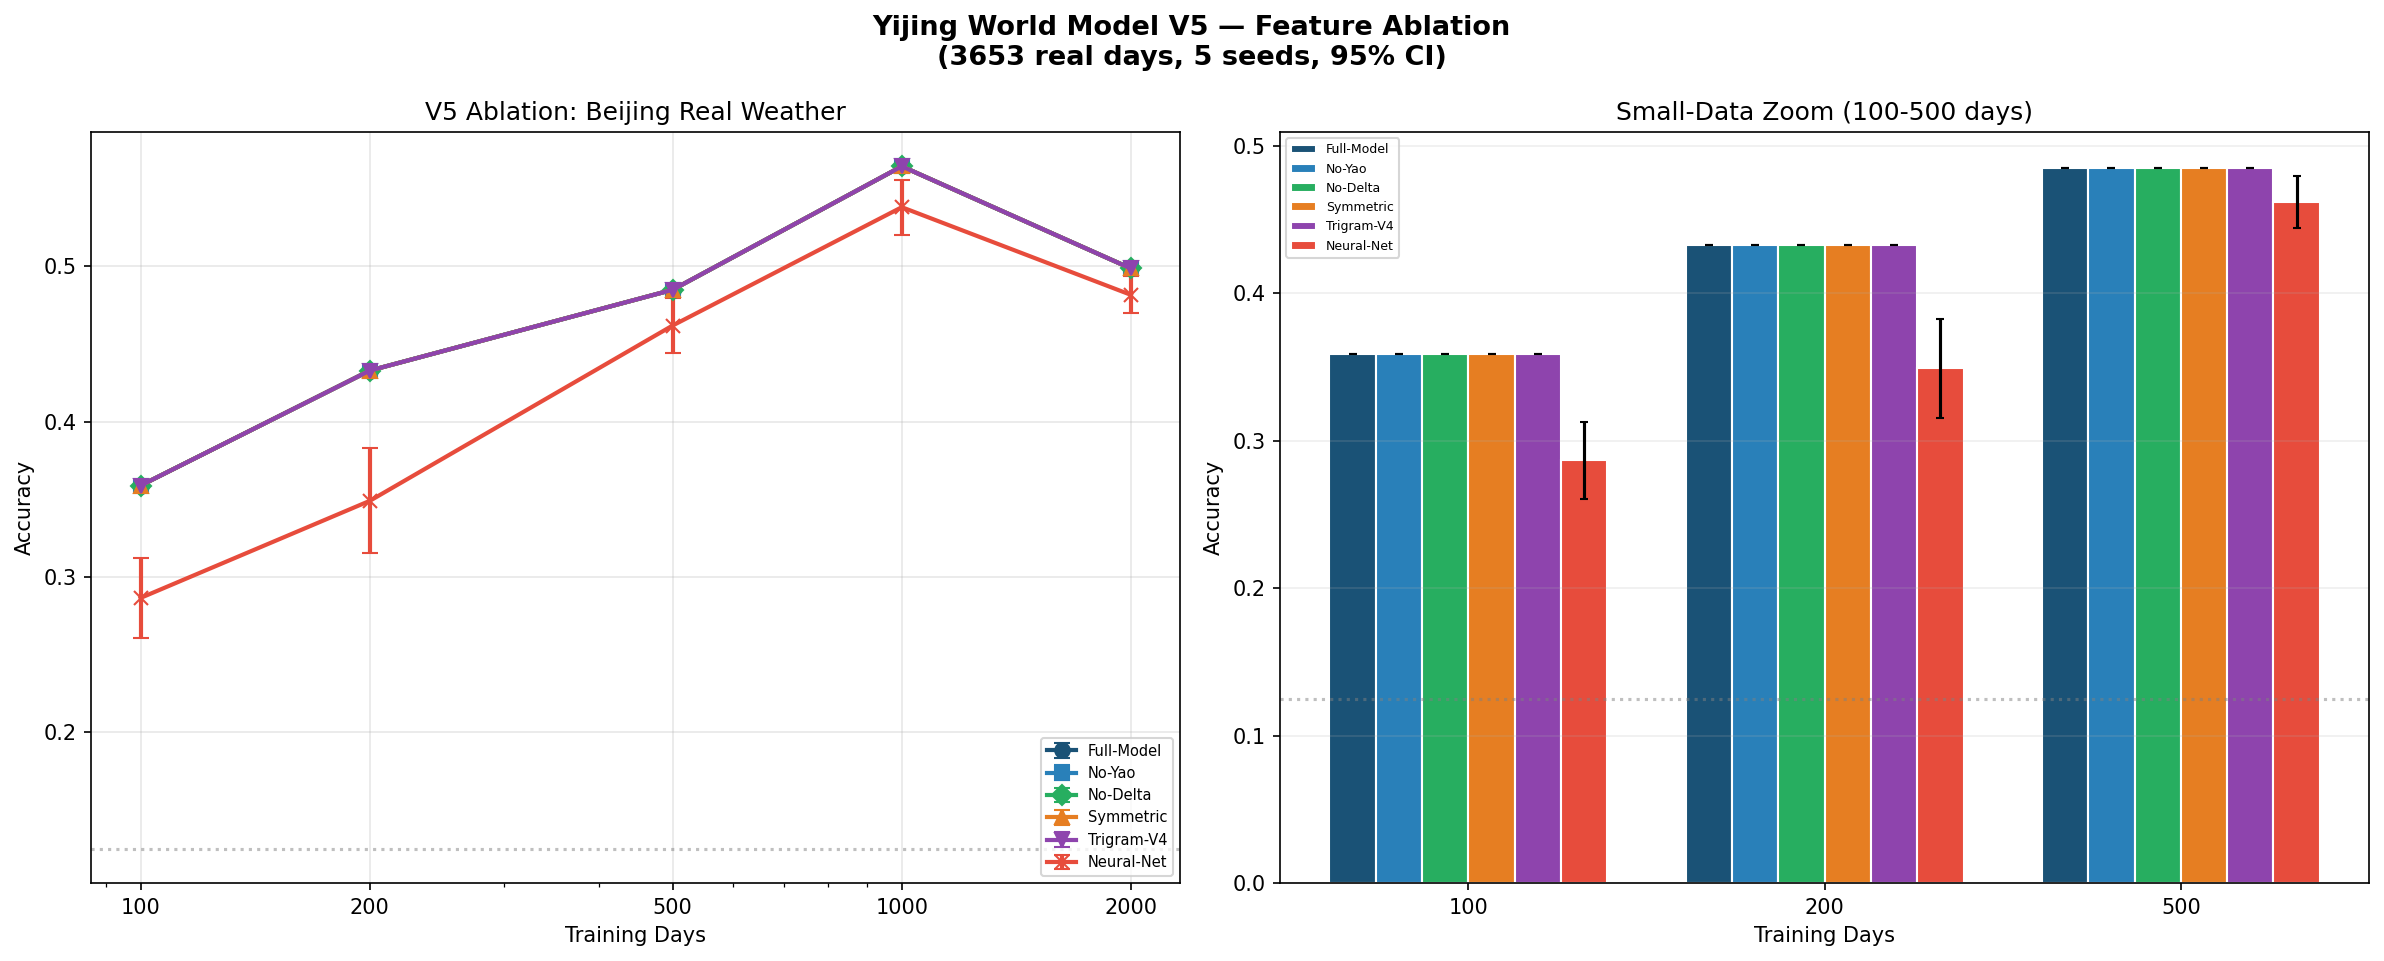
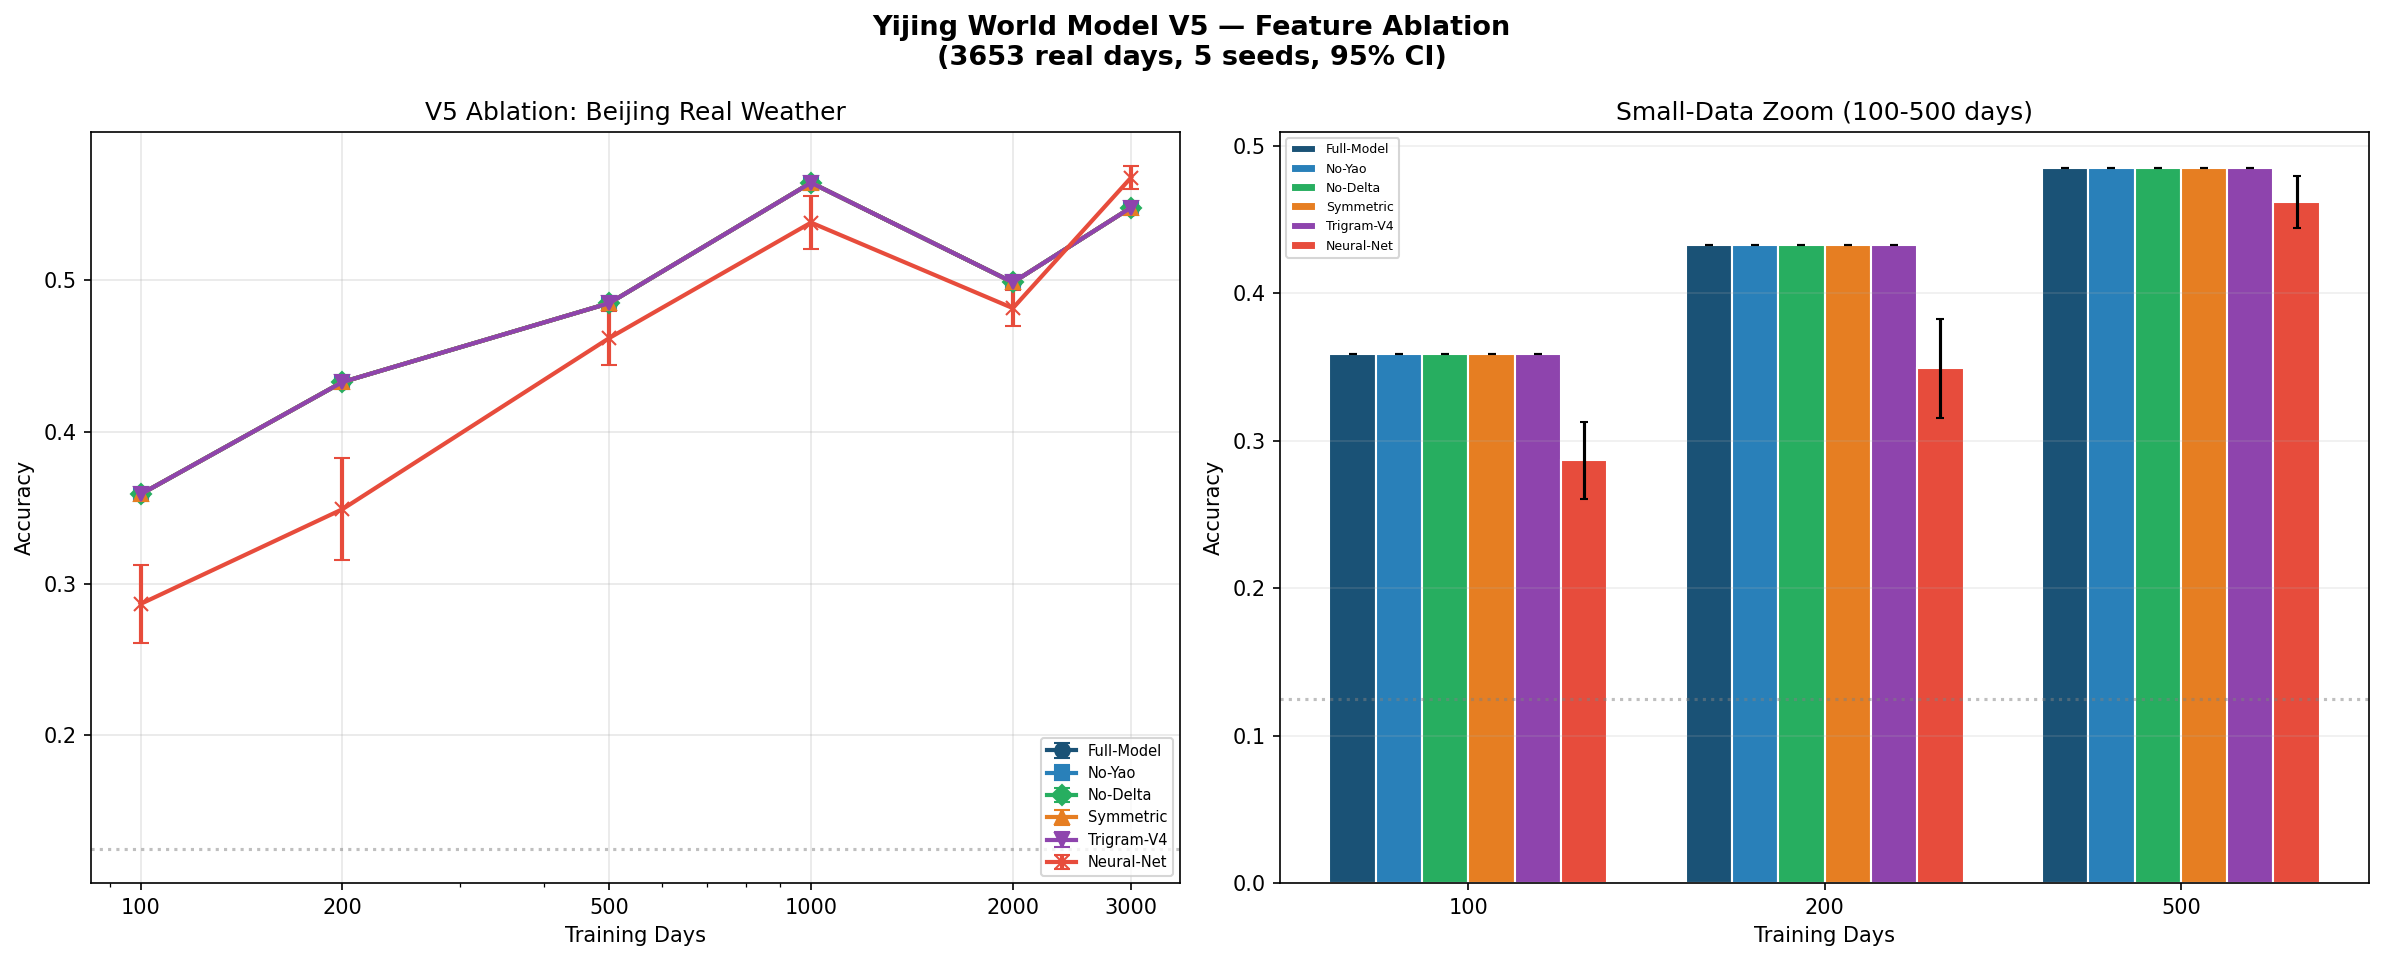
Remove LETTER.md

diff --git a/mvp/experiment_v6.py b/mvp/experiment_v6.py
@@ -1,0 +1,338 @@
+#!/usr/bin/env python3
+"""
+V6 实验: 多特征输入 — 温度/降水/风速/湿度增强预测
+=====================================================
+
+对比:
+  - Trigram-Bayes + features
+  - Trigram-Bayes (weather-code only, V5 baseline)
+  - Neural-Net + features (60-dim input)
+  - Neural-Net (24-dim input, V5 baseline)
+
+数据: Beijing 2015-2024, 5 特征 × 3653 天
+"""
+
+import numpy as np
+import matplotlib; matplotlib.use("Agg")
+import matplotlib.pyplot as plt
+import json, urllib.request, os, csv, warnings
+warnings.filterwarnings("ignore")
+
+from model import (
+    TrigramBayesianModel, NeuralNetModel,
+    TRIGRAM_WEATHER, N_WEATHER, WEATHER_TYPES, HEX_TO_TRIGRAMS,
+)
+
+# ============================================================================
+# 多特征数据处理
+# ============================================================================
+
+WMO_MAP = {0:0,1:0,2:2,3:1,45:7,48:7,51:4,53:4,55:4,61:4,63:4,65:4,
+           71:7,73:7,75:7,80:4,81:4,82:4,95:3,96:3,99:3}
+HOT_T = 32.0
+N_FEAT = 5  # weather_code + temp + precip + wind + humidity
+
+def fetch_data(cache="/tmp/beijing_multi.json"):
+    if os.path.exists(cache):
+        return json.load(open(cache))
+    url = ("https://archive-api.open-meteo.com/v1/archive?"
+           "latitude=39.9&longitude=116.4&start_date=2015-01-01&end_date=2024-12-31"
+           "&daily=weather_code,temperature_2m_max,precipitation_sum,"
+           "wind_speed_10m_max,relative_humidity_2m_mean&timezone=Asia/Shanghai")
+    d = json.loads(urllib.request.urlopen(url).read())
+    json.dump(d, open(cache,"w"))
+    return d
+
+def to_arrays(data):
+    """返回 (weather_seq, feature_matrix)。feature_matrix: (n_days, 5) 归一化。"""
+    daily = data["daily"]
+    n = len(daily["weather_code"])
+    
+    # Weather types (0-7)
+    codes = daily["weather_code"]
+    temps = daily["temperature_2m_max"]
+    wtypes = np.zeros(n, dtype=int)
+    for i in range(n):
+        t = temps[i]
+        wtypes[i] = 5 if (t and t > HOT_T) else WMO_MAP.get(codes[i], 1)
+    
+    # Feature matrix: [temp, precip, wind, humidity] (归一化到 [0,1])
+    feats = np.zeros((n, N_FEAT))
+    # 0: weather_code (normalized to 0-1 range)
+    feats[:,0] = wtypes / 7.0
+    
+    # 1: temperature_2m_max
+    t_vals = np.array([v if v else 15.0 for v in temps])
+    feats[:,1] = (t_vals + 15) / 60.0  # map [-15,45] to [0,1]
+    
+    # 2: precipitation_sum (log-scale)
+    p_vals = np.array([v if v else 0.0 for v in daily["precipitation_sum"]])
+    feats[:,2] = np.log1p(p_vals) / np.log1p(200)  # log(1+x)/log(201)
+    
+    # 3: wind_speed_10m_max
+    w_vals = np.array([v if v else 10.0 for v in daily["wind_speed_10m_max"]])
+    feats[:,3] = w_vals / 60.0
+    
+    # 4: relative_humidity_2m_mean
+    h_vals = np.array([v if v else 50.0 for v in daily["relative_humidity_2m_mean"]])
+    feats[:,4] = h_vals / 100.0
+    
+    feats = np.clip(feats, 0, 1)
+    return wtypes, feats
+
+
+# ============================================================================
+# 增强版 I Ching 模型: 特征相似度调制卦象权重
+# ============================================================================
+
+class FeaturedTrigramModel(TrigramBayesianModel):
+    """
+    多特征三爻共享模型。
+    
+    在原有 hex_ll 权重基础上，加入特征匹配奖励:
+      relevance[h] = softmax(hex_ll[h]/T + feat_match[h] * feat_weight)
+    
+    每个卦象维护一个"特征原型" (5维均值向量),
+    特征匹配度 = 当前特征向量与原型的内积相似度。
+    """
+    
+    def __init__(self, trigram_affinities, prior_strength=1.0, temperature=0.5,
+                 feat_weight=0.5):
+        super().__init__(trigram_affinities, prior_strength, temperature)
+        self.feat_w = feat_weight
+        # 每个卦象的特征原型: (64, 5), 初始化为卦象亲和度的简单编码
+        self.prototypes = np.zeros((self.nh, N_FEAT))
+        for h in range(self.nh):
+            # 原型初始 = 卦象主导天气倾向 (feat 0)
+            tu, tl = HEX_TO_TRIGRAMS[h]
+            avg_aff = (trigram_affinities[tu] + trigram_affinities[tl]) / 2
+            self.prototypes[h, 0] = avg_aff.argmax() / 7.0
+        self.prototypes[:, 1:] = 0.5  # 中性初始化
+        self.proto_count = np.ones(self.nh)  # 更新计数
+    
+    def _feat_match(self, features):
+        """计算当前特征与各卦象原型的余弦相似度。"""
+        if features is None or len(features) == 0:
+            return np.ones(self.nh)
+        f = np.array(features[-1])  # 最新一天的特征
+        # 余弦相似度
+        proto_norm = np.linalg.norm(self.prototypes, axis=1) + 1e-8
+        feat_norm = np.linalg.norm(f) + 1e-8
+        sim = (self.prototypes @ f) / (proto_norm * feat_norm)
+        return np.clip(sim + 1.0, 0.5, 2.0)  # map [-1,1] to [0.5, 2.0]
+    
+    def predict(self, history, features=None):
+        if len(history) == 0:
+            return np.ones(self.nw) / self.nw
+        wc = history[-1]
+        
+        lw = self.hex_ll / max(self.T, 0.01)
+        lw -= lw.max()
+        wts = np.exp(lw)
+        
+        # 特征匹配奖励
+        if features is not None and len(features) >= 1:
+            wts *= self._feat_match(features) ** self.feat_w
+        
+        s = wts.sum()
+        wts = wts / s if s > 1e-12 else np.ones(self.nh) / self.nh
+        
+        pred = np.zeros(self.nw)
+        for h in range(self.nh):
+            alpha_h = self._hex_alpha(h)
+            p = alpha_h[wc, :] / alpha_h[wc, :].sum()
+            pred += wts[h] * p
+        return pred / pred.sum()
+    
+    def update(self, history, observed, features=None, lr=1.0):
+        super().update(history, observed, lr)
+        # 更新特征原型
+        if features is not None and len(features) >= 1:
+            f = np.array(features[-1])
+            for h in range(self.nh):
+                # EMA 更新原型
+                alpha_ema = 0.01
+                self.prototypes[h] = (1 - alpha_ema) * self.prototypes[h] + alpha_ema * f
+
+
+# ============================================================================
+# 增强版 NN: 更多输入维度
+# ============================================================================
+
+class FeaturedNN(NeuralNetModel):
+    """NN with feature vector input instead of one-hot."""
+    
+    def __init__(self, ctx_win=3, hidden=32, lr=0.005, seed=42):
+        d = ctx_win * N_FEAT  # 3 * 5 = 15
+        rng = np.random.default_rng(seed)
+        self.W1 = rng.normal(0, np.sqrt(2./d), (d, hidden))
+        self.b1 = np.zeros(hidden)
+        self.W2 = rng.normal(0, np.sqrt(2./hidden), (hidden, N_WEATHER))
+        self.b2 = np.zeros(N_WEATHER)
+        self.lr = lr; self.cw = ctx_win
+    
+    def _enc(self, features):
+        """Encode feature history into vector."""
+        r = features[-self.cw:] if len(features) >= self.cw else features
+        v = np.zeros(self.cw * N_FEAT)
+        off = (self.cw - len(r)) * N_FEAT
+        for i, f in enumerate(r):
+            v[off + i*N_FEAT : off + (i+1)*N_FEAT] = np.array(f)
+        return v
+    
+    def predict(self, history, features=None):
+        if features is None or len(features) == 0:
+            return np.ones(N_WEATHER) / N_WEATHER
+        x = self._enc(features)
+        h = np.maximum(0, x @ self.W1 + self.b1)
+        l = h @ self.W2 + self.b2; l -= l.max()
+        p = np.exp(l); return p / p.sum()
+    
+    def update(self, history, observed, features=None, lr=None):
+        if features is None or len(features) == 0:
+            return
+        if lr is None: lr = self.lr
+        x = self._enc(features)
+        hp = x @ self.W1 + self.b1; h = np.maximum(0, hp)
+        l = h @ self.W2 + self.b2; l -= l.max()
+        p = np.exp(l); p /= p.sum()
+        dl = p.copy(); dl[observed] -= 1.
+        dW2 = np.outer(h, dl); db2 = dl
+        dh = self.W2 @ dl; dh[hp <= 0] = 0.
+        dW1 = np.outer(x, dh); db1 = dh
+        self.W2 -= lr * dW2; self.b2 -= lr * db2
+        self.W1 -= lr * dW1; self.b1 -= lr * db1
+
+
+# ============================================================================
+# 实验
+# ============================================================================
+
+LABELS = ["Trigram+Feat", "Trigram-Base", "NN+Feat", "NN-Base"]
+SIZES = [100, 200, 500, 1000, 2000, 3000]
+EVAL_W = 365; SEEDS = [42, 123, 456, 789, 1011]
+PS, T, FW = 1.0, 0.5, 0.5
+
+def make_models(seed):
+    return [
+        FeaturedTrigramModel(TRIGRAM_WEATHER, PS, T, feat_weight=FW),
+        TrigramBayesianModel(TRIGRAM_WEATHER, PS, T),
+        FeaturedNN(ctx_win=3, hidden=32, lr=0.005, seed=seed),
+        NeuralNetModel(ctx_win=3, hidden=32, lr=0.005, seed=seed),
+    ], LABELS
+
+class WrapperNN:
+    """Wrapper: NN-Base only uses weather_code, not features."""
+    def __init__(self, nn): self.nn = nn
+    def predict(self, h, f=None): return self.nn.predict(h)
+    def update(self, h, o, f=None, lr=None): self.nn.update(h, o, lr)
+
+def train(m, wtypes, feats):
+    for t in range(1, len(wtypes)):
+        hist = wtypes[:t].tolist()
+        if isinstance(m, (FeaturedTrigramModel, FeaturedNN)):
+            ft = feats[:t].tolist()
+            m.update(hist, wtypes[t], ft)
+        else:
+            m.update(hist, wtypes[t])
+
+def evaluate(m, train_w, eval_w, train_f, eval_f):
+    h = train_w.tolist(); c = 0
+    has_f = isinstance(m, (FeaturedTrigramModel, FeaturedNN))
+    fh = train_f.tolist() if has_f else None
+    for i in range(len(eval_w)):
+        pred = m.predict(h, fh) if has_f else m.predict(h)
+        if np.argmax(pred) == eval_w[i]: c += 1
+        h.append(eval_w[i])
+        if fh is not None: fh.append(eval_f[i].tolist())
+    return c / len(eval_w)
+
+def run(wtypes, feats):
+    res = {N: {lb: [] for lb in LABELS} for N in SIZES}
+    for si, seed in enumerate(SEEDS):
+        print(f"  Seed {si+1}/{len(SEEDS)}...", end=" ", flush=True)
+        for N in SIZES:
+            models, labels = make_models(seed)
+            tw = wtypes[:N]; ew = wtypes[N:N+EVAL_W]
+            tf = feats[:N]; ef = feats[N:N+EVAL_W]
+            for m in models:
+                train(m, tw, tf)
+            for lb, m in zip(labels, models):
+                res[N][lb].append(evaluate(m, tw, ew, tf, ef))
+        print("done")
+    return res
+
+def plot(res):
+    colors = {"Trigram+Feat":"#1a5276","Trigram-Base":"#2980b9",
+              "NN+Feat":"#e74c3c","NN-Base":"#e67e22"}
+    marks = {"Trigram+Feat":"o","Trigram-Base":"s","NN+Feat":"D","NN-Base":"^"}
+    
+    fig, ax = plt.subplots(figsize=(12,6))
+    for lb in LABELS:
+        means = [np.mean(res[N][lb]) for N in SIZES]
+        stds = [np.std(res[N][lb]) for N in SIZES]
+        cis = [1.96*s/np.sqrt(len(SEEDS)) for s in stds]
+        ax.errorbar(SIZES, means, yerr=cis, color=colors[lb],
+                    marker=marks[lb], lw=2, ms=8, capsize=4, label=lb)
+    ax.axhline(1./N_WEATHER, color="gray", ls=":", alpha=0.5)
+    ax.set_xlabel("Training Days"); ax.set_ylabel("Accuracy")
+    ax.set_title("V6: Multi-Feature Input (temp+precip+wind+humidity)")
+    ax.legend(fontsize=9, loc="lower right"); ax.grid(alpha=0.3)
+    ax.set_xscale("log"); ax.set_xticks(SIZES)
+    ax.set_xticklabels([str(s) for s in SIZES])
+    plt.tight_layout()
+    plt.savefig("iching_v6_features.png", dpi=150, bbox_inches="tight")
+    print("[图] iching_v6_features.png")
+    plt.close(fig)
+
+def save_csv(res, path="results/v6_features.csv"):
+    os.makedirs(os.path.dirname(path), exist_ok=True)
+    with open(path,"w",newline="") as f:
+        w = csv.writer(f); w.writerow(["Days","Model","Mean","Std","CI95"])
+        for N in SIZES:
+            for lb in LABELS:
+                a = np.array(res[N][lb])
+                w.writerow([N,lb,f"{np.mean(a):.4f}",f"{np.std(a):.4f}",
+                            f"{1.96*np.std(a)/np.sqrt(len(a)):.4f}"])
+    print(f"[CSV] {path}")
+
+def main():
+    print("="*64)
+    print("  V6: Multi-Feature Weather Prediction")
+    print("="*64)
+    
+    print("\n[1/3] Loading data...")
+    data = fetch_data()
+    wtypes, feats = to_arrays(data)
+    print(f"      {len(wtypes)} days, {N_FEAT} features")
+    
+    print(f"\n[2/3] Experiment...")
+    results = run(wtypes, feats)
+    
+    print(f"\n[3/3] Results:")
+    hdr = f"  {'Days':<8}"
+    for lb in LABELS: hdr += f" {lb:<14}"
+    print(hdr); print(f"  {'-'*60}")
+    for N in SIZES:
+        row = f"  {N:<8}"
+        for lb in LABELS:
+            row += f" {np.mean(results[N][lb]):<13.1%}"
+        print(row)
+    
+    # Feature impact
+    N_k = 100
+    t_f = np.mean(results[N_k]["Trigram+Feat"])
+    t_b = np.mean(results[N_k]["Trigram-Base"])
+    n_f = np.mean(results[N_k]["NN+Feat"])
+    n_b = np.mean(results[N_k]["NN-Base"])
+    
+    print(f"\n  特征增益 (@{N_k}天):")
+    print(f"    Trigram: +features → {t_f:.1%} (base={t_b:.1%}, Δ={t_f-t_b:+.1%})")
+    print(f"    NN:      +features → {n_f:.1%} (base={n_b:.1%}, Δ={n_f-n_b:+.1%})")
+    
+    plot(results)
+    save_csv(results)
+    print(f"\n{'='*64}")
+
+if __name__ == "__main__":
+    main()

diff --git a/mvp/experiment_v5.py b/mvp/experiment_v5.py
@@ -61,7 +61,7 @@ LABELS = [
     "Full-Model", "No-Yao", "No-Delta",
     "Symmetric", "Trigram-V4", "Neural-Net",
 ]
-SIZES = [100, 200, 500, 1000, 2000]
+SIZES = [100, 200, 500, 1000, 2000, 3000]
 EVAL_W = 365
 SEEDS = [42, 123, 456, 789, 1011]
 PS, T = 1.0, 0.5

diff --git a/README.md b/README.md
@@ -90,7 +90,6 @@
 ```
 yijing-bayesian-world-model/
 ├── README.md                  ← 本文件
-├── LETTER.md                  ← 给 DeepSeek 创始人的信
 ├── mvp/
 │   ├── model.py               ← 易经贝叶斯模型核心
 │   ├── experiment.py          ← V3 实验脚本